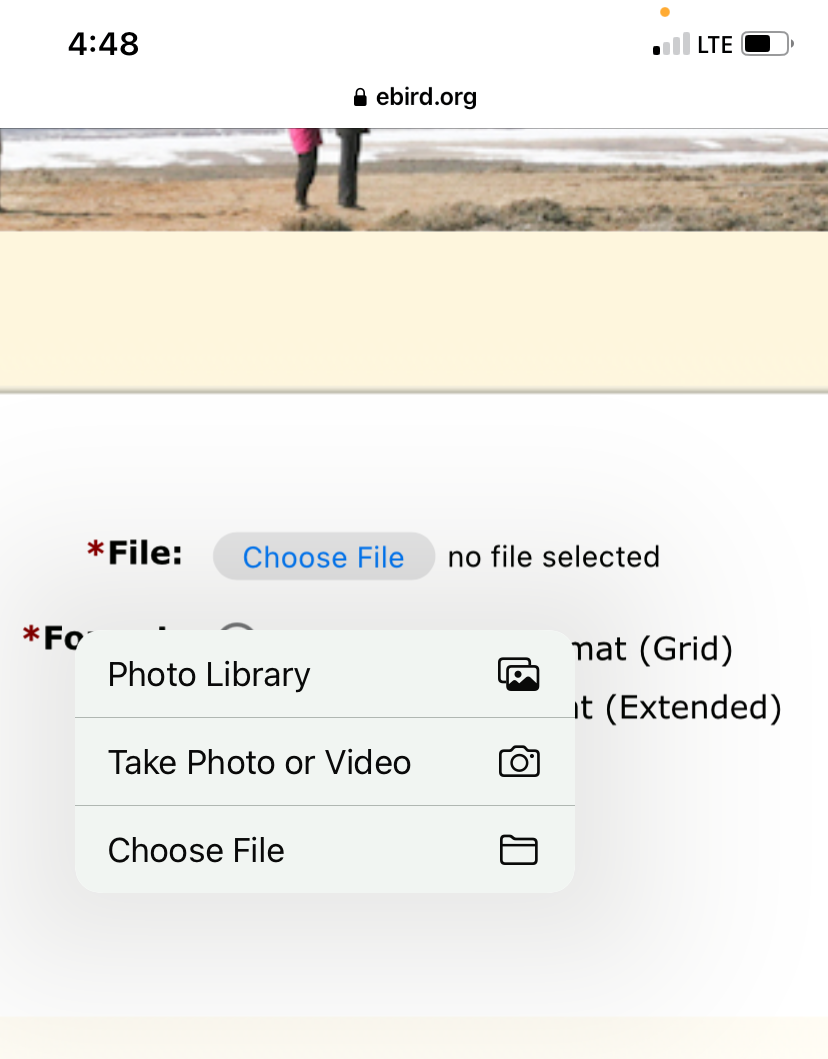
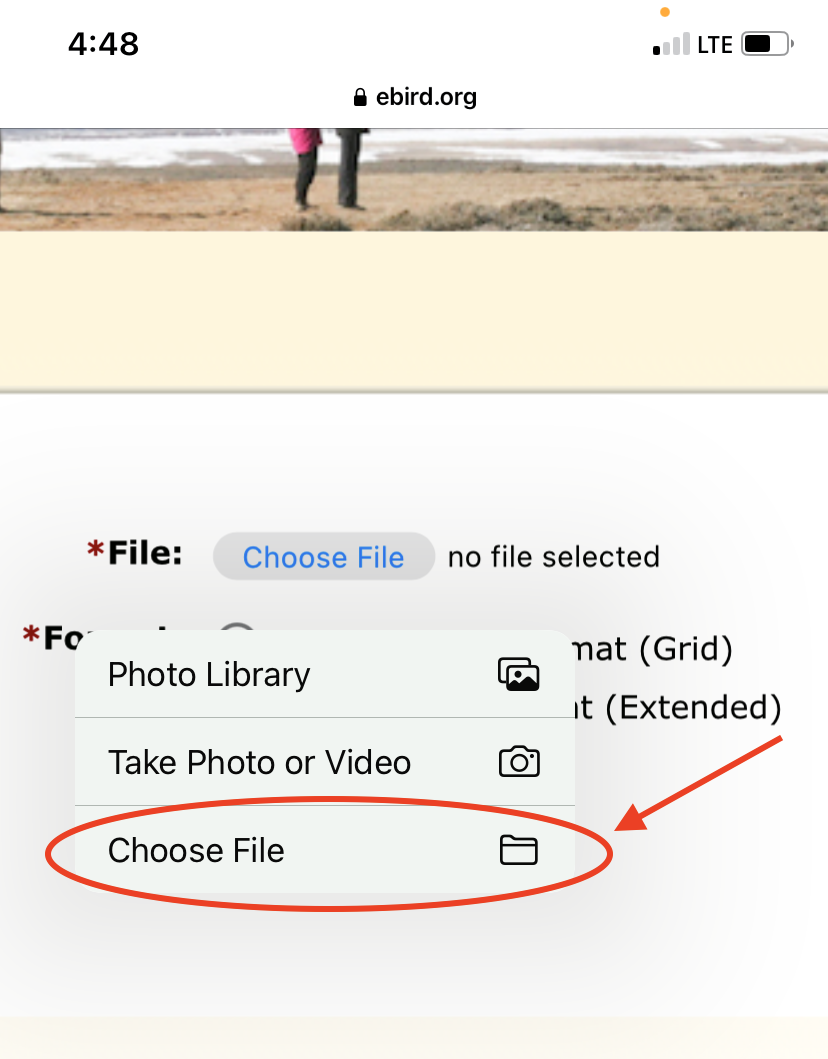
Documentation updates and image improvements
- Move testimonial to docs/testimonial.md and update navigation
- Add new annotated upload process images
- Update original images with improved annotations
- Update image resizing guidelines in project notes
- Ensure all documentation images are properly sized to 375px width

diff --git a/docs/testimonial.md b/docs/testimonial.md
@@ -47,7 +47,7 @@ The true test came during a weekend when BirdTalk was temporarily unavailable du
 
 What I originally feared would be "one more piece of technology" had actually freed me from technology's constraints. Instead of juggling between binoculars, phone, and the natural world, I could simply be present with the birds. The app had become an invisible partner in my birding practice, enhancing rather than intruding upon my connection with nature.
 
-For those still hesitant about trying BirdTalk, I get it — I was there too. But if you're serious about birding and eBird documentation, this tool will revolutionize your field experience. It's not just about convenience; it's about rediscovering the joy of birding, unencumbered by the mechanics of record-keeping.
+For those still hesitant about trying BirdTalk, I get it — I was there too. But if you're serious about using eBird to document your birding, this tool will revolutionize your field experience. It's not just about convenience; it's about rediscovering the joy of birding, unencumbered by the mechanics of record-keeping.
 
 You should give it a try. You won't regret it.
 
